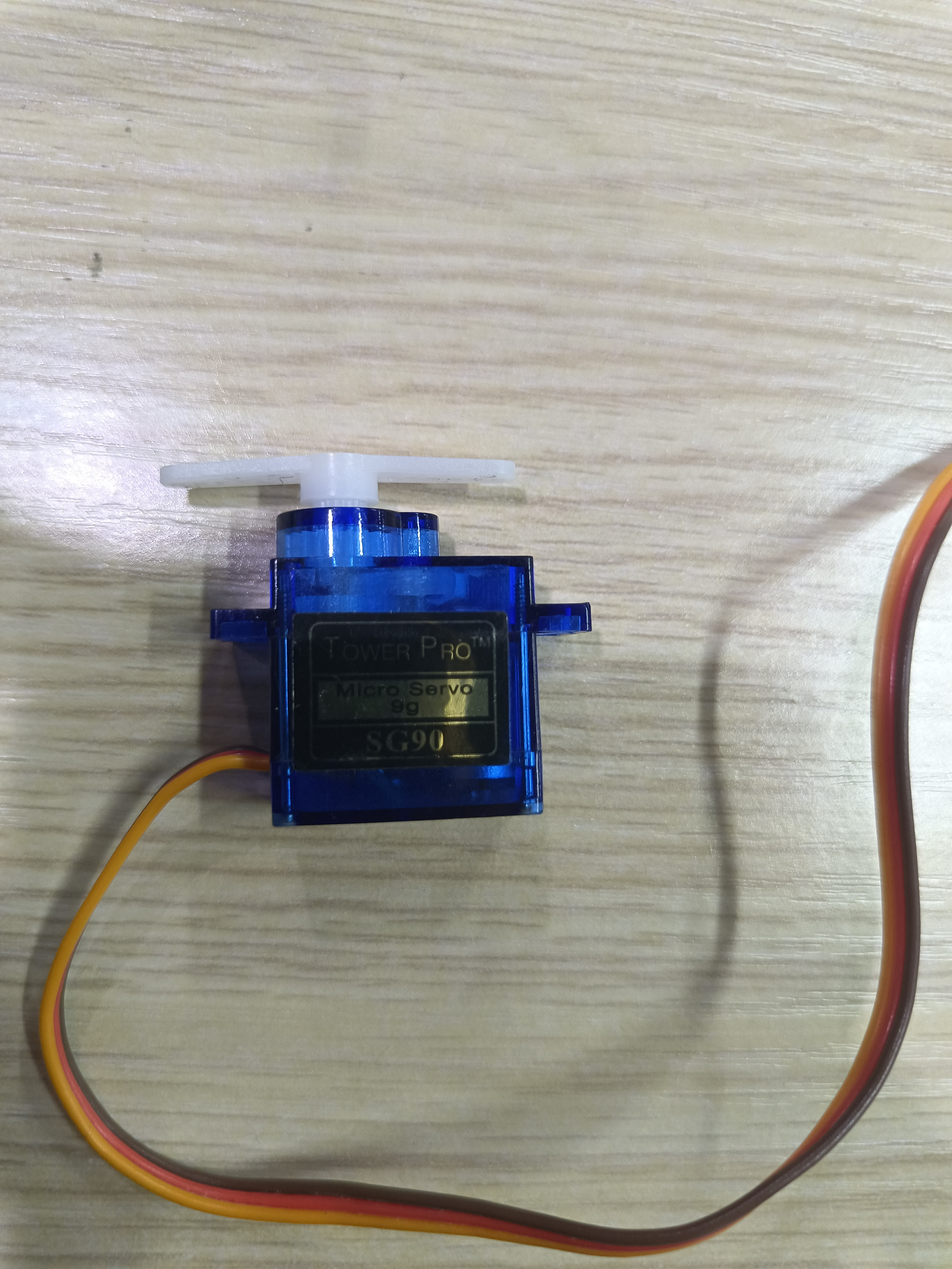
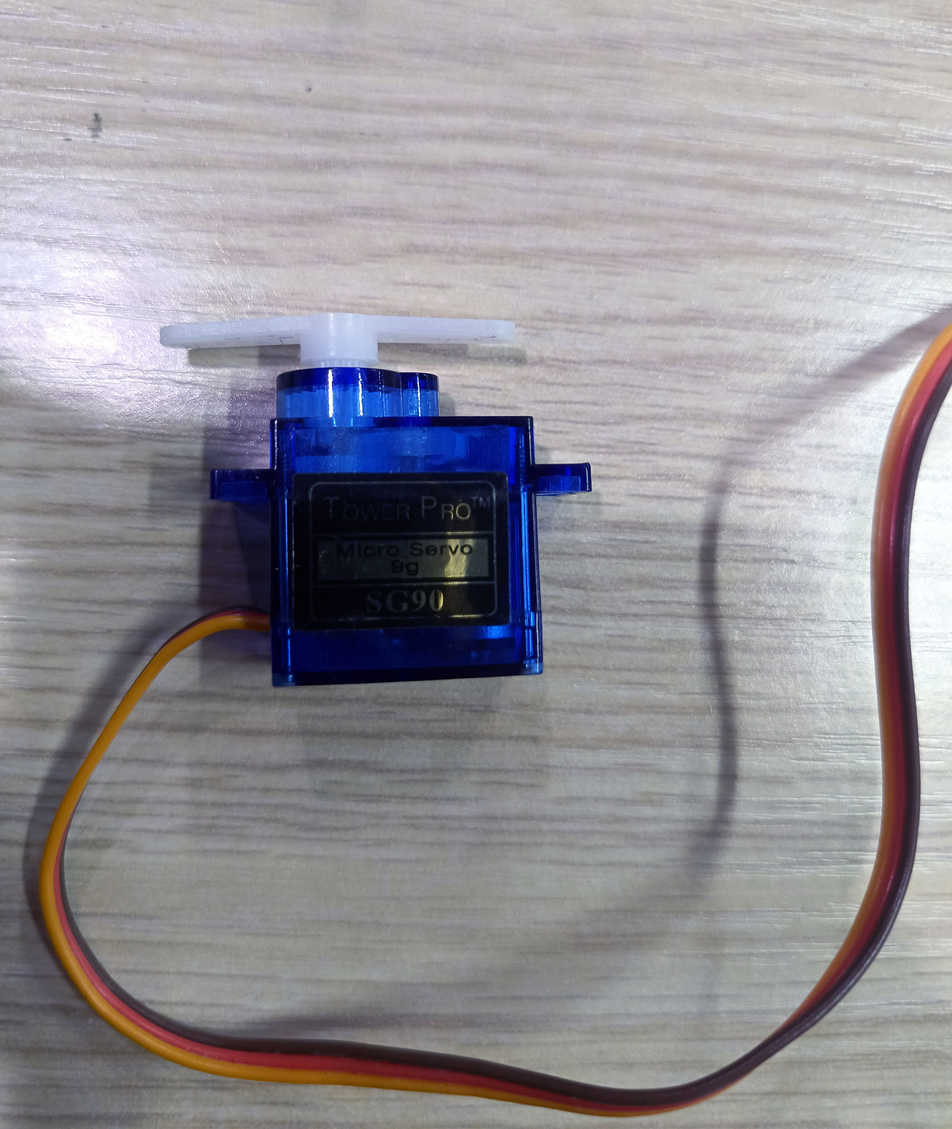
修改了舵机图片

diff --git a/src/flight/guide-arduino-servo.md b/src/flight/guide-arduino-servo.md
@@ -5,7 +5,11 @@ category:
  - 教程
 ---
 
-@include(../flight/intro-arduino.md{8-})
+@include(../flight/intro-arduino.md{8-36})
+
+## [Arduino IDE 安装教程](/flight/intro-arduino.md#arduino-安装)
+
+详见 [Arduino IDE 安装](/flight/intro-arduino.md#arduino-安装)
 
 ## 舵机介绍
 
@@ -13,4 +17,4 @@ category:
 
 下面是SG90舵机的图片：
 
-![](/assets/pics/Servo1-SG90.jpg x=300)
+![](/assets/pics/Servo1-SG90.jpg =x300)
